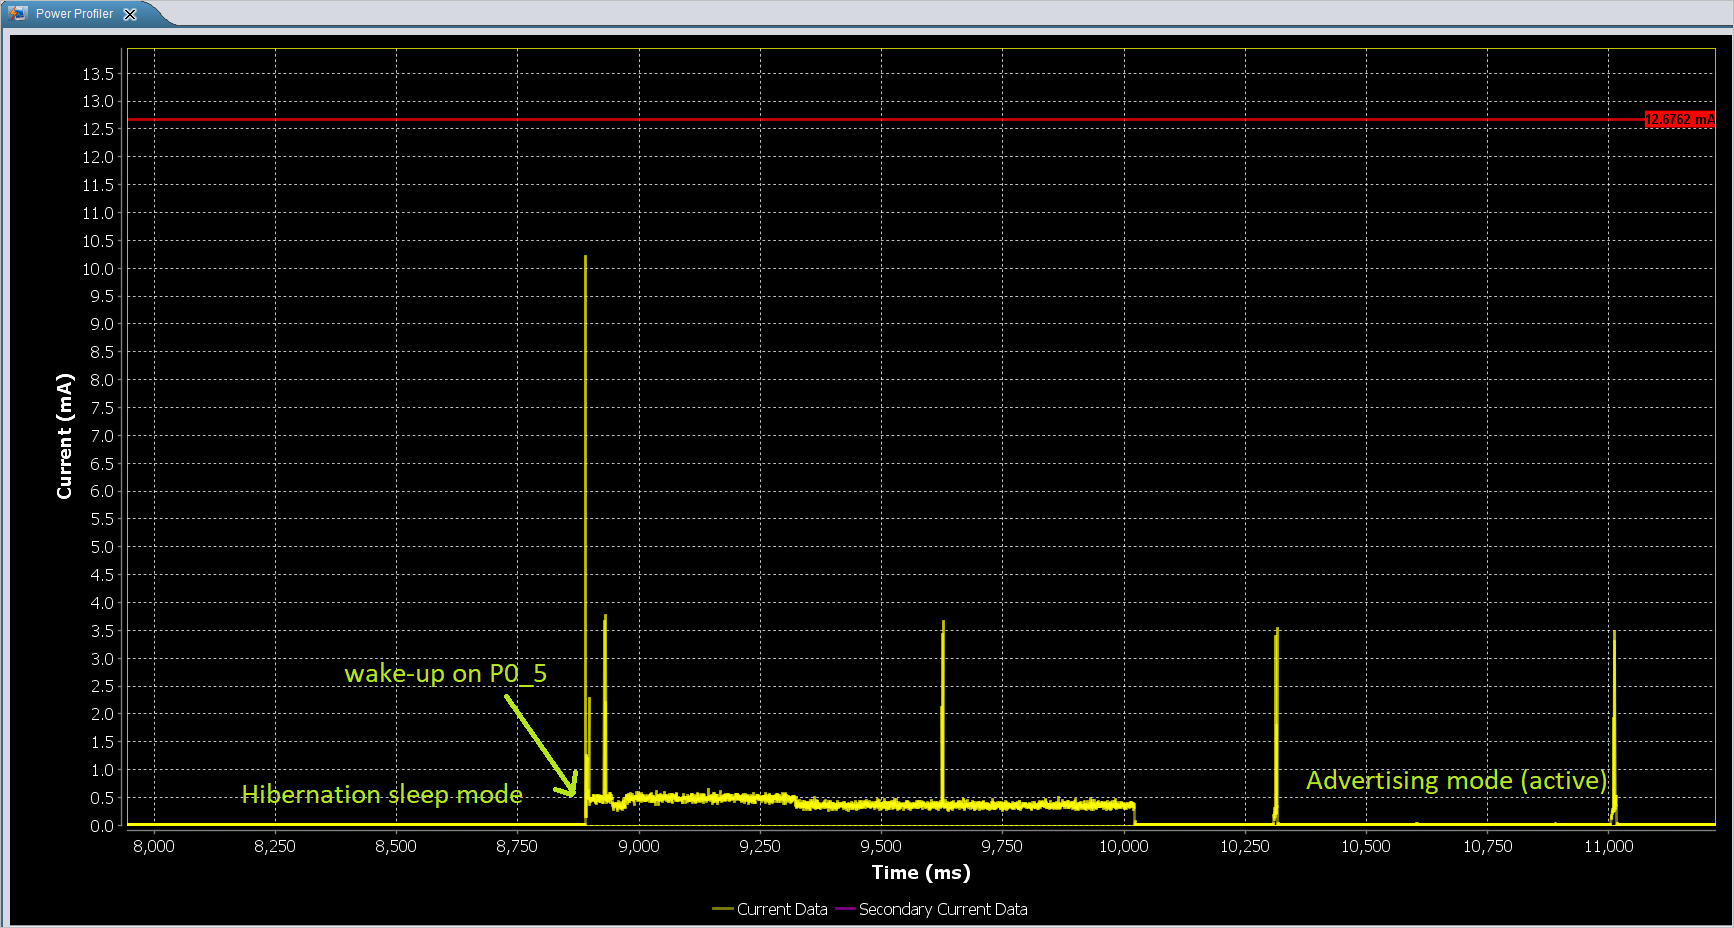
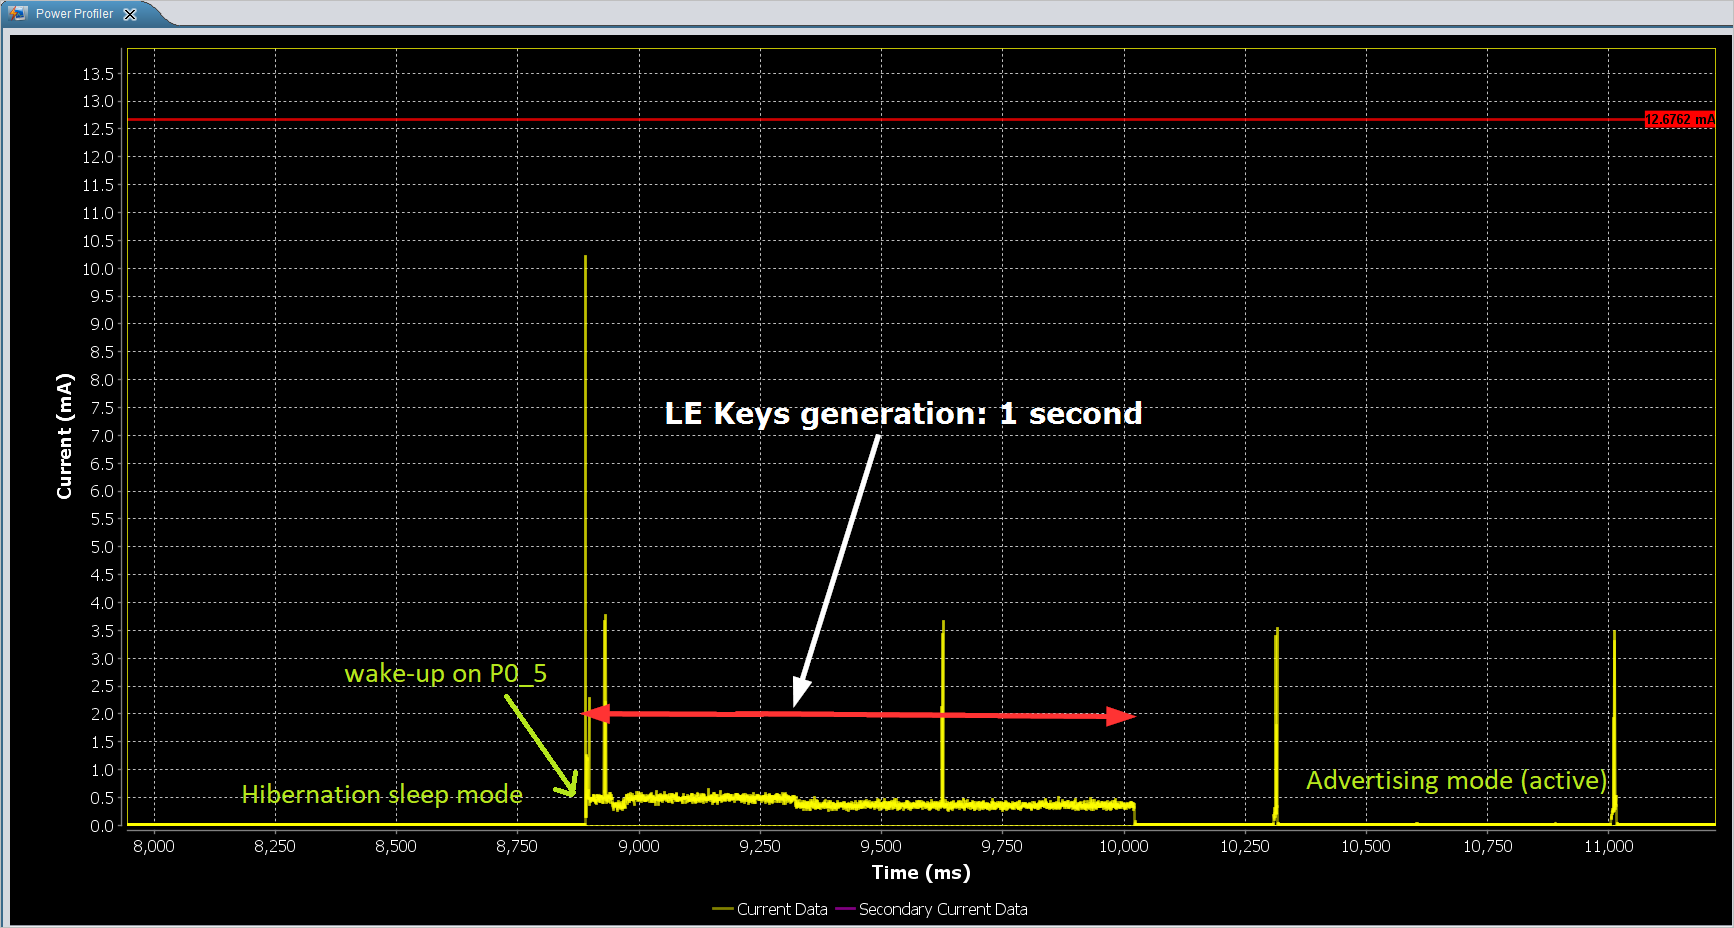
Add NOTE in the readme

Changed region(s): [[0.3426, 0.7188, 0.654, 0.7812], [0.3737, 0.4375, 0.654, 0.5], [0.4671, 0.5312, 0.4983, 0.6875]]

diff --git a/connectivity/hibernation_and_stateaware_hibernation/Readme.md b/connectivity/hibernation_and_stateaware_hibernation/Readme.md
@@ -319,6 +319,23 @@ To demonstrate the state-aware hibernation example, the following software modif
 
 3. End of example.		
 
+**NOTE**
+
+In the previous figure, approximatively extra **1 second** is observed when wakeup from hibernation. During the first 1 second the system is not going to the extended sleep after the first and the second triplet this is because the **`CFG_ENABLE_SMP_SECURE `** definition is enabled.
+If this definition is enabled it will keep the device active for 1 second in order to generate the LE keys. If you undefine this (as long as LE Secure Connections are not used) then the device should go immediately to sleep after the first advertising triplet. 
+``` C
+/****************************************************************************************************************/
+/* Creation of private and public keys using Elliptic Curve Diffie Hellman algorithms.                          */
+/* - defined:   Creation of ECDH keys and secure connection feature is enabled.                                 */
+/* - undefined: Creation of ECDH keys and secure connection feature is disabled. If application does not        */
+/*              support secure connections, it is recommended to undefine CFG_ENABLE_SMP_SECURE in order to     */
+/*              enable faster start-up time and reduce code size.                                               */
+/****************************************************************************************************************/
+#define CFG_ENABLE_SMP_SECURE
+
+```
+	
+![LE_SECURE_CONENCTION_NOT_ENABLED](assets/keyremoved.jpg) 
 
 ## Troubleshooting
 
